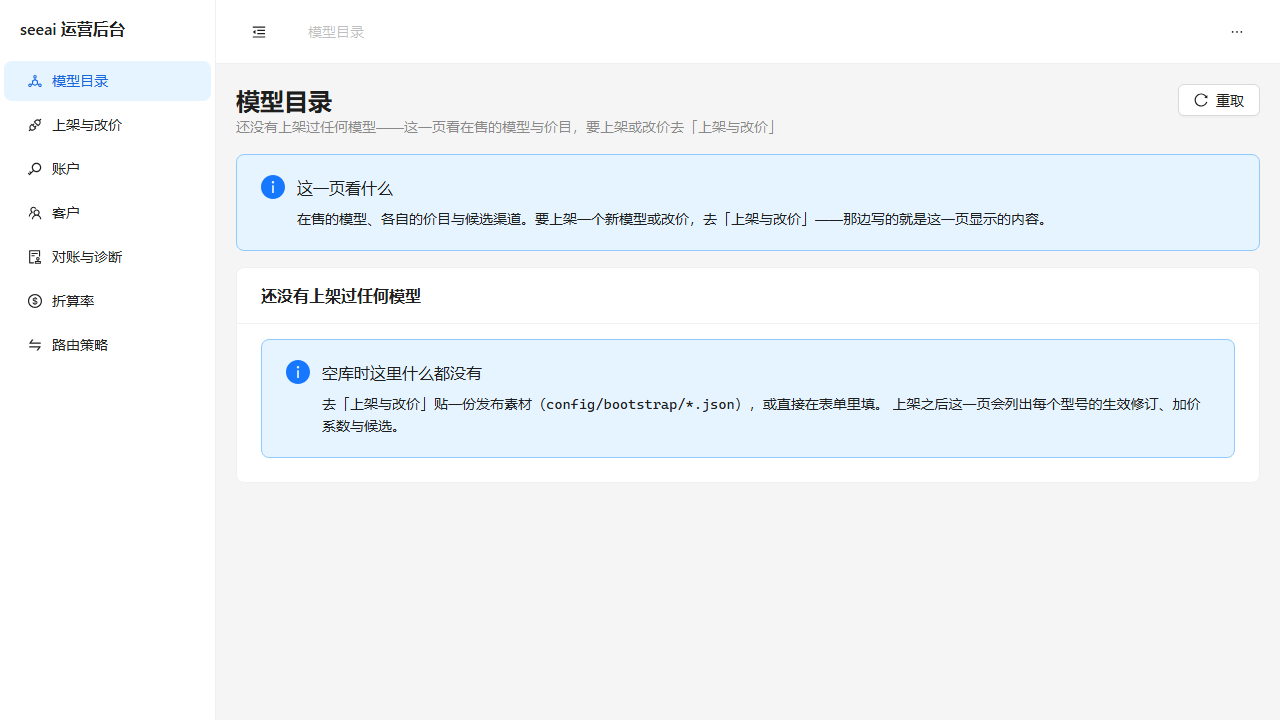
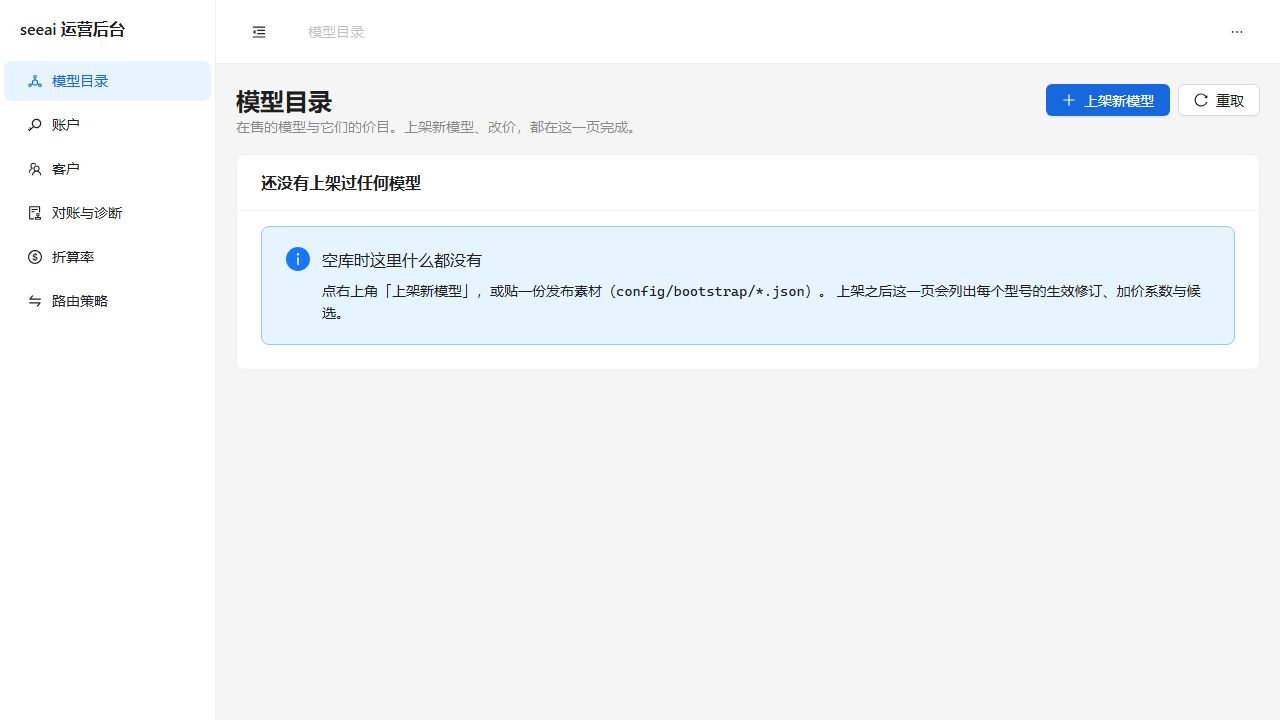
chore(screenshots): 抓图脚本跟上合并后的界面
「上架与改价」导航项已并入「模型目录」，抓图脚本还在找它——找不到就整组超时。改成抓六个页面，另加一张
「上架新模型」抽屉（表单现在开在那里）。

顺带记下抓图时踩到的：`playwright.capture.config.ts` 是 `reuseExistingServer: !CI`，所以 8090 上如果
已经跑着一个空的交付服务，它会被复用，登录不进去、六张图全抓不到。抓图前先停掉那个服务。

diff --git a/apps/web/e2e/capture-screenshots.capture.ts b/apps/web/e2e/capture-screenshots.capture.ts
@@ -8,15 +8,7 @@ import { adminApiUrl, consoleUrl, portalUrl, settings } from './settings';
 ///
 /// 它与 e2e 分开配置（`playwright.capture.config.ts`）：`npm run e2e` 只跑断言，`npm run capture`
 /// 只抓图。合成一份的话抓图会混进常规运行、白花时间还把用例总数搞乱。
-const CONSOLE_PAGES = [
-  '模型目录',
-  '上架与改价',
-  '账户',
-  '客户',
-  '对账与诊断',
-  '折算率',
-  '路由策略',
-] as const;
+const CONSOLE_PAGES = ['模型目录', '账户', '客户', '对账与诊断', '折算率', '路由策略'] as const;
 
 test('运营后台六个页面各抓一张截图', async ({ page, request }) => {
   // 先造一点数据，免得每页都是空态：一个币种的折算率 + 一个带余额的账户。
@@ -44,6 +36,12 @@ test('运营后台六个页面各抓一张截图', async ({ page, request }) => 
       fullPage: true,
     });
   }
+
+  // 「上架新模型」的表单开在模型目录的抽屉里，它也是要给人看的一屏。
+  await page.locator('.ant-layout-sider').getByRole('menuitem', { name: '模型目录' }).click();
+  await page.getByTestId('models-add').click();
+  await page.waitForTimeout(700);
+  await page.screenshot({ path: 'screenshots/07-运营后台-上架新模型.png', fullPage: true });
 });
 
 test('客户控制台的登录页与控制台各抓一张截图', async ({ page }) => {
